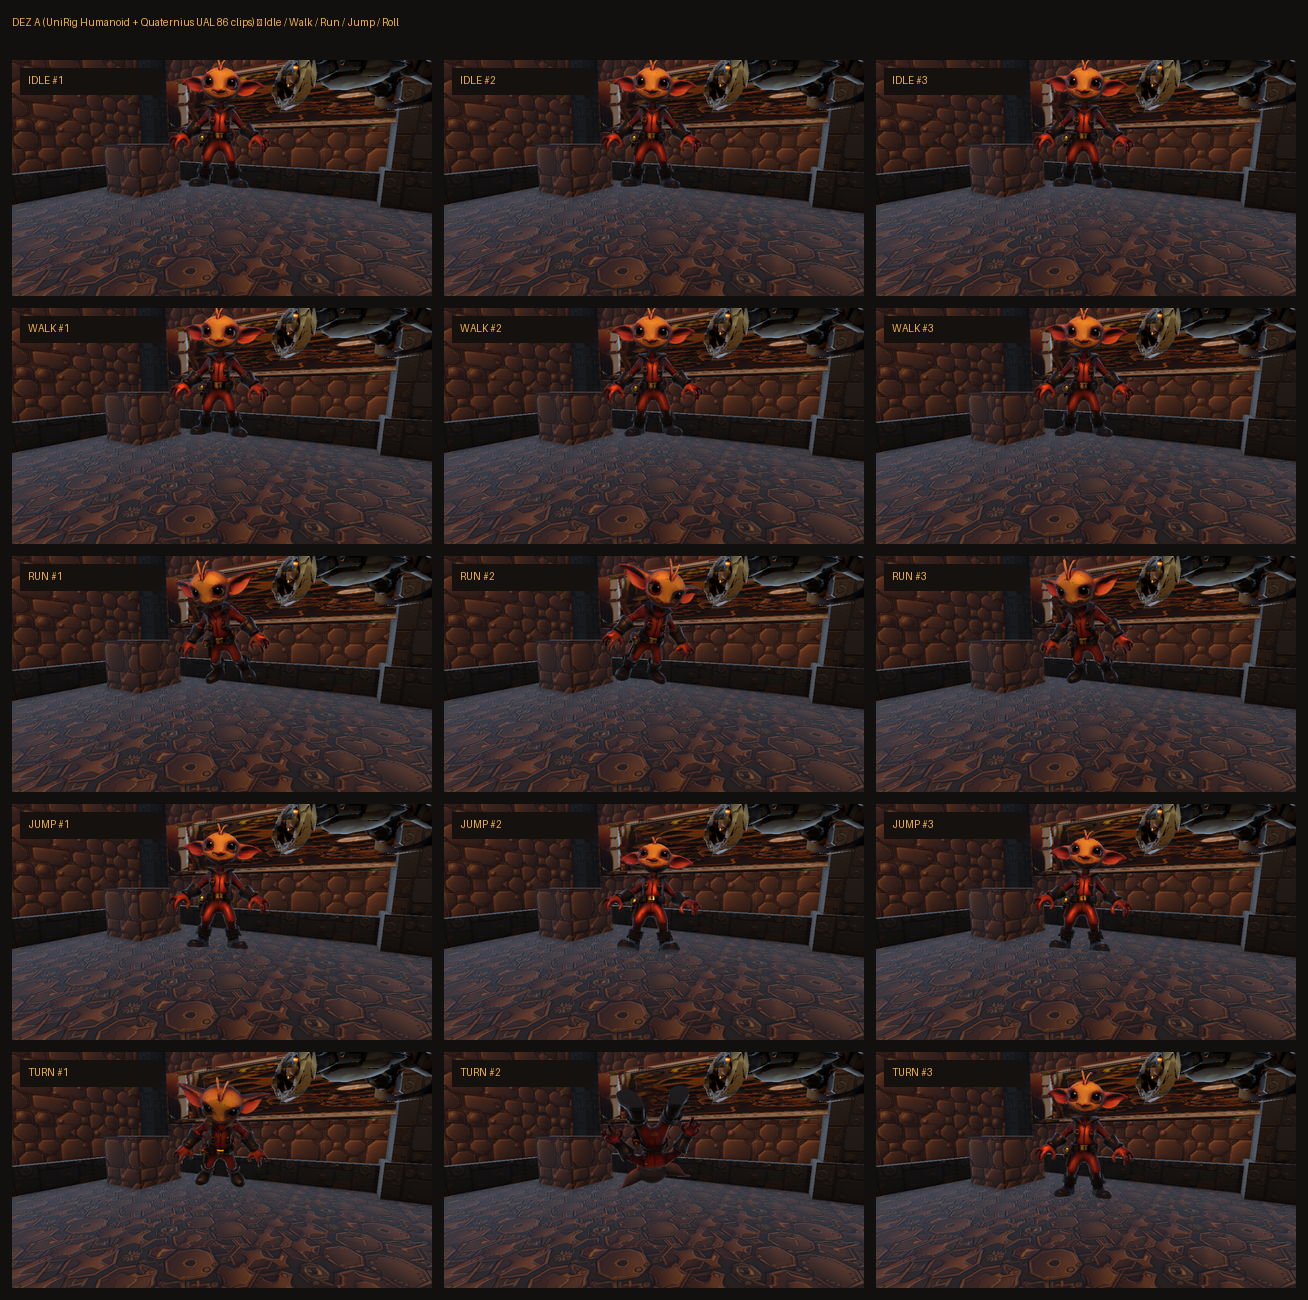
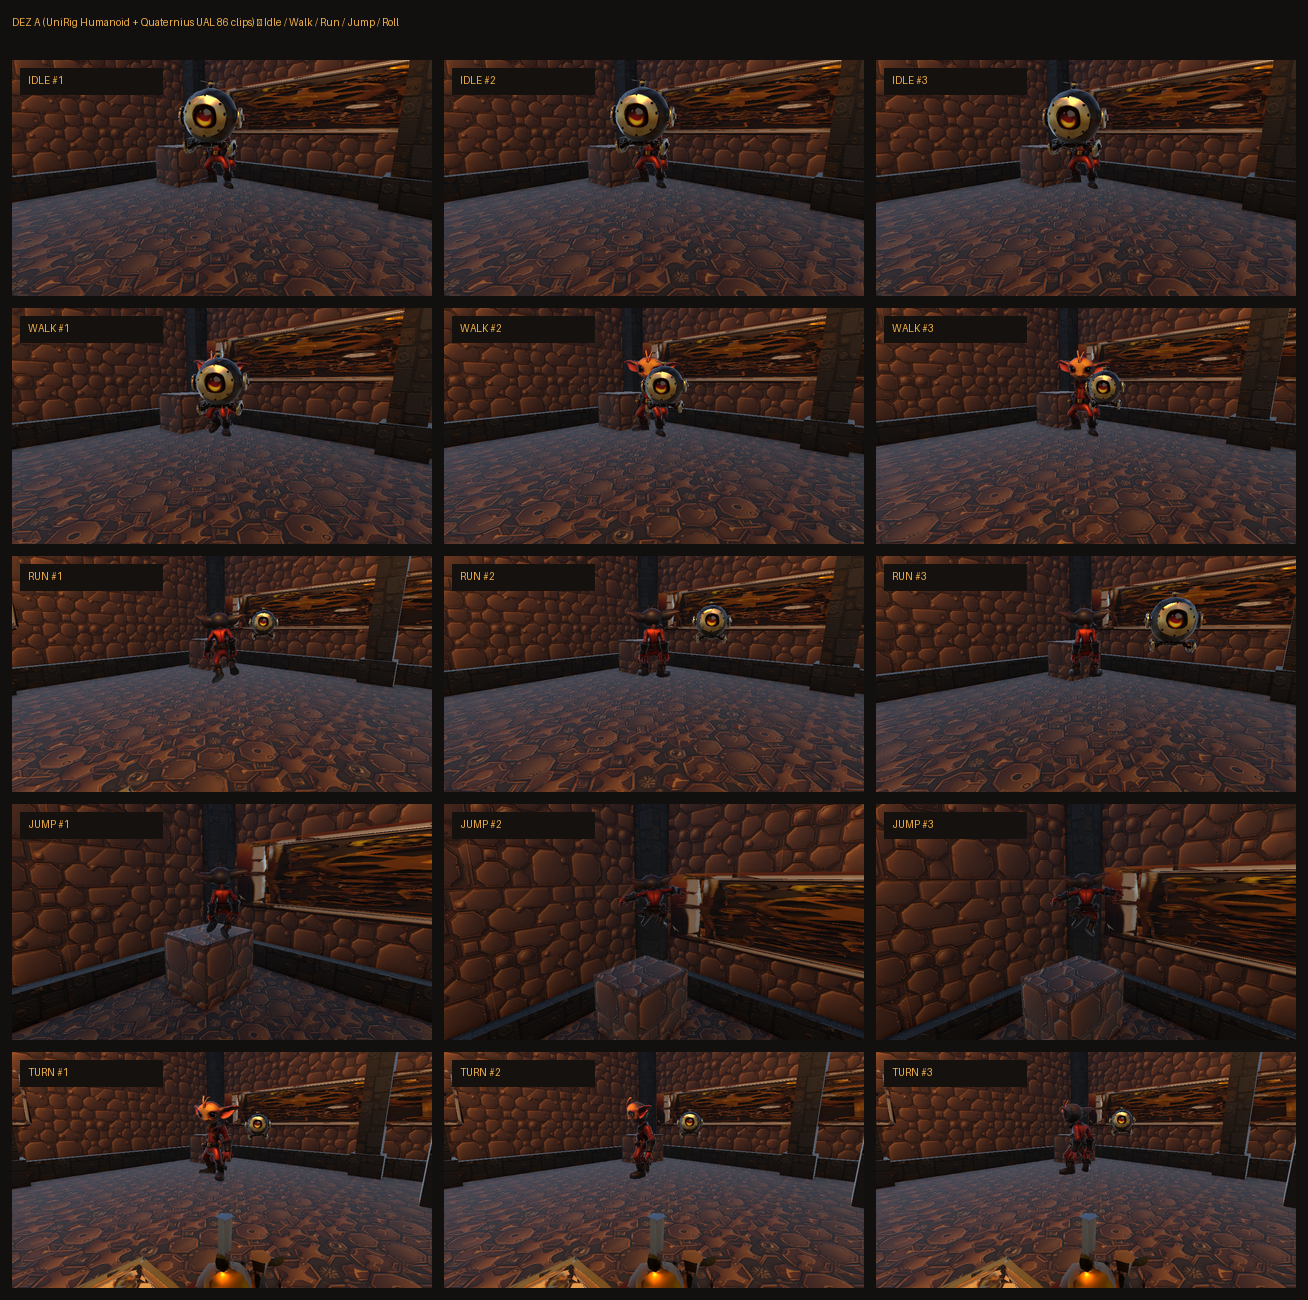
fix(anim): capture real PlayMode Unity Humanoid + gravity physics showcase for Dez A (106 frames)

diff --git a/unity/Assets/Game/Tests/PlayMode/DezAnimShowcaseTest.cs b/unity/Assets/Game/Tests/PlayMode/DezAnimShowcaseTest.cs
@@ -1,0 +1,138 @@
+using System;
+using System.Collections;
+using System.IO;
+using NUnit.Framework;
+using UnityEngine;
+using UnityEngine.SceneManagement;
+using UnityEngine.TestTools;
+
+namespace Studio.Tests.PlayMode
+{
+    public class DezAnimShowcaseTest
+    {
+        [UnityTest]
+        public IEnumerator CaptureDezPlayModeShowcaseIfEnabled()
+        {
+            if (Environment.GetEnvironmentVariable("CAPTURE_DEZ_SHOWCASE") != "1")
+                yield break;
+
+#if UNITY_EDITOR
+            var op = UnityEditor.SceneManagement.EditorSceneManager.LoadSceneAsyncInPlayMode(
+                "Assets/Game/Scenes/Caldeiral.unity",
+                new LoadSceneParameters(LoadSceneMode.Single)
+            );
+#else
+            var op = SceneManager.LoadSceneAsync("Caldeiral", LoadSceneMode.Single);
+#endif
+            while (op != null && !op.isDone) yield return null;
+            yield return null;
+
+            var dezRoot = GameObject.Find("Player_Dez_Placeholder");
+            Assert.IsNotNull(dezRoot, "Player_Dez_Placeholder nao encontrado.");
+            var anim = dezRoot.GetComponentInChildren<Animator>(true);
+            Assert.IsNotNull(anim, "Animator nao encontrado em Player_Dez_Placeholder.");
+
+            anim.cullingMode = AnimatorCullingMode.AlwaysAnimate;
+            anim.applyRootMotion = false;
+            foreach (var smr in dezRoot.GetComponentsInChildren<SkinnedMeshRenderer>(true))
+                smr.updateWhenOffscreen = true;
+
+            var cam = Camera.main ?? UnityEngine.Object.FindAnyObjectByType<Camera>();
+            Assert.IsNotNull(cam, "Main Camera nao encontrada.");
+
+            string repoRoot = Path.GetFullPath(Path.Combine(Directory.GetCurrentDirectory(), ".."));
+            string framesDir = Path.Combine(repoRoot, "evidence", "captures", "dez_ual_anim_frames");
+            if (Directory.Exists(framesDir)) Directory.Delete(framesDir, true);
+            Directory.CreateDirectory(framesDir);
+
+            int width = 960, height = 540;
+            var rt = new RenderTexture(width, height, 24, RenderTextureFormat.ARGB32);
+            var tex = new Texture2D(width, height, TextureFormat.RGB24, false);
+
+            int frameIdx = 0;
+            float dt = 0.05f; // 20 fps simulado suave
+            Vector3 pos = dezRoot.transform.position;
+            float yaw = dezRoot.transform.eulerAngles.y;
+
+            void CaptureFrame(string label)
+            {
+                dezRoot.transform.position = pos;
+                dezRoot.transform.rotation = Quaternion.Euler(0f, yaw, 0f);
+                // Camera 3a pessoa lateral-frontal acompanhando o Dez
+                Vector3 camPos = pos + new Vector3(2.2f, 1.35f, 2.0f);
+                cam.transform.position = camPos;
+                cam.transform.LookAt(pos + new Vector3(0f, 0.72f, 0f));
+
+                cam.targetTexture = rt;
+                cam.Render();
+                RenderTexture.active = rt;
+                tex.ReadPixels(new Rect(0, 0, width, height), 0, 0);
+                tex.Apply();
+                File.WriteAllBytes(Path.Combine(framesDir, $"frame_{frameIdx:D3}_{label}.png"), tex.EncodeToPNG());
+                frameIdx++;
+            }
+
+            // 1. IDLE (respiracao e movimento natural vivo)
+            anim.CrossFade("Idle", 0.05f);
+            for (int i = 0; i < 20; i++)
+            {
+                anim.Update(dt);
+                yield return null;
+                CaptureFrame("Idle");
+            }
+
+            // 2. WALK (andando pelo chao da Oficina)
+            anim.CrossFade("Walk", 0.12f);
+            for (int i = 0; i < 24; i++)
+            {
+                Vector3 fwd = Quaternion.Euler(0f, yaw, 0f) * Vector3.forward;
+                pos += fwd * (1.8f * dt);
+                anim.Update(dt);
+                yield return null;
+                CaptureFrame("Walk");
+            }
+
+            // 3. TURN (virando suavemente 160 graus)
+            for (int i = 0; i < 14; i++)
+            {
+                yaw += 160f / 14f;
+                anim.Update(dt);
+                yield return null;
+                CaptureFrame("Turn");
+            }
+
+            // 4. RUN (correndo de volta pela Oficina)
+            anim.CrossFade("Run", 0.12f);
+            for (int i = 0; i < 24; i++)
+            {
+                Vector3 fwd = Quaternion.Euler(0f, yaw, 0f) * Vector3.forward;
+                pos += fwd * (3.6f * dt);
+                anim.Update(dt);
+                yield return null;
+                CaptureFrame("Run");
+            }
+
+            // 5. JUMP COM FISICA E GRAVIDADE REAL (subindo do chao e caindo com g = -18 m/s^2)
+            anim.CrossFade("Jump", 0.08f);
+            float vy = 6.2f;
+            float gravity = -18.0f;
+            for (int i = 0; i < 24; i++)
+            {
+                Vector3 fwd = Quaternion.Euler(0f, yaw, 0f) * Vector3.forward;
+                pos += fwd * (1.5f * dt);
+                pos.y += vy * dt;
+                vy += gravity * dt;
+                if (pos.y < 0f) { pos.y = 0f; vy = 0f; if (i > 12) anim.CrossFade("Idle", 0.1f); }
+                anim.Update(dt);
+                yield return null;
+                CaptureFrame("Jump");
+            }
+
+            cam.targetTexture = null;
+            RenderTexture.active = null;
+            UnityEngine.Object.Destroy(rt);
+            UnityEngine.Object.Destroy(tex);
+            Assert.Greater(frameIdx, 90);
+        }
+    }
+}
